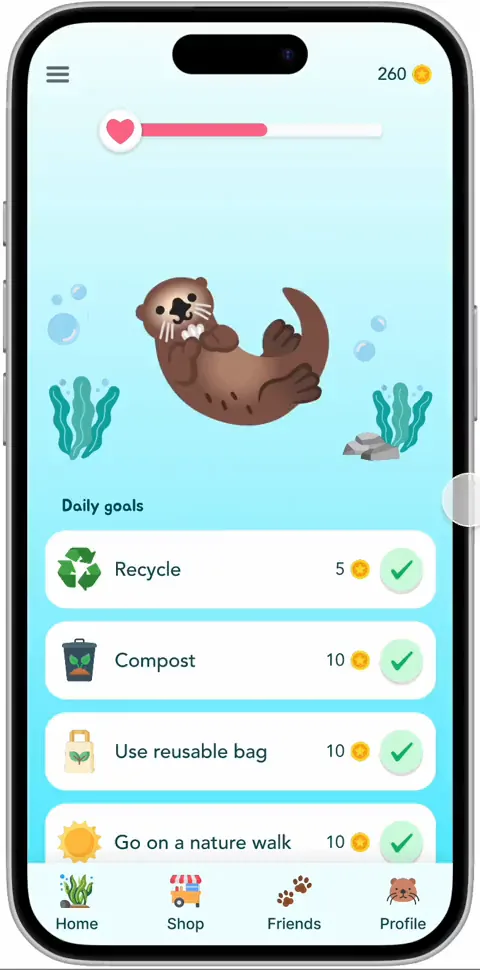
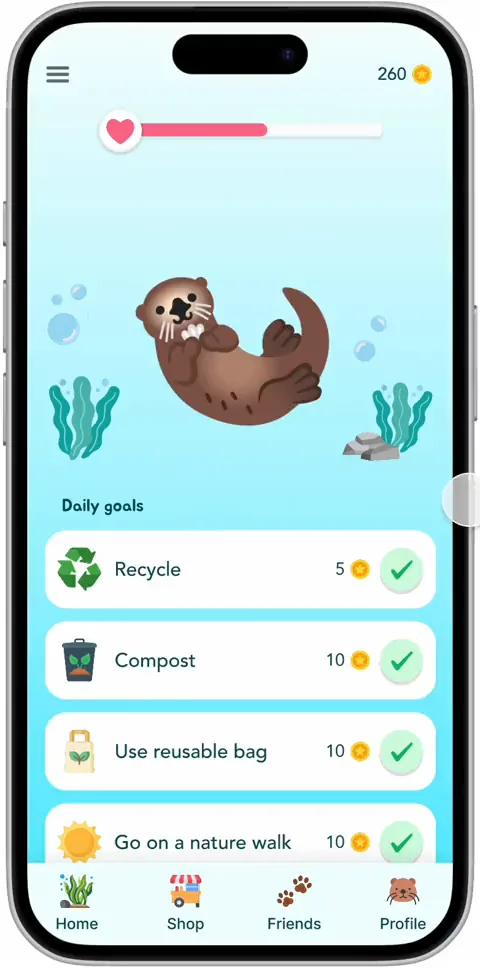
Trim the dark edge off the Ripple recording
The bottom row of the encode was a grey artifact — mean 111 against the
254 of the row above it — which read as a hairline under the phone. Cut
from the original rather than the mp4, so the re-encode isn't stacked on
the first one: 970 becomes 968, still even, as h264 needs.

diff --git a/src/pages/About.tsx b/src/pages/About.tsx
@@ -52,7 +52,7 @@ function RippleLoop() {
       src={ripple}
       poster={ripplePoster}
       width={480}
-      height={970}
+      height={968}
       muted
       loop
       playsInline
